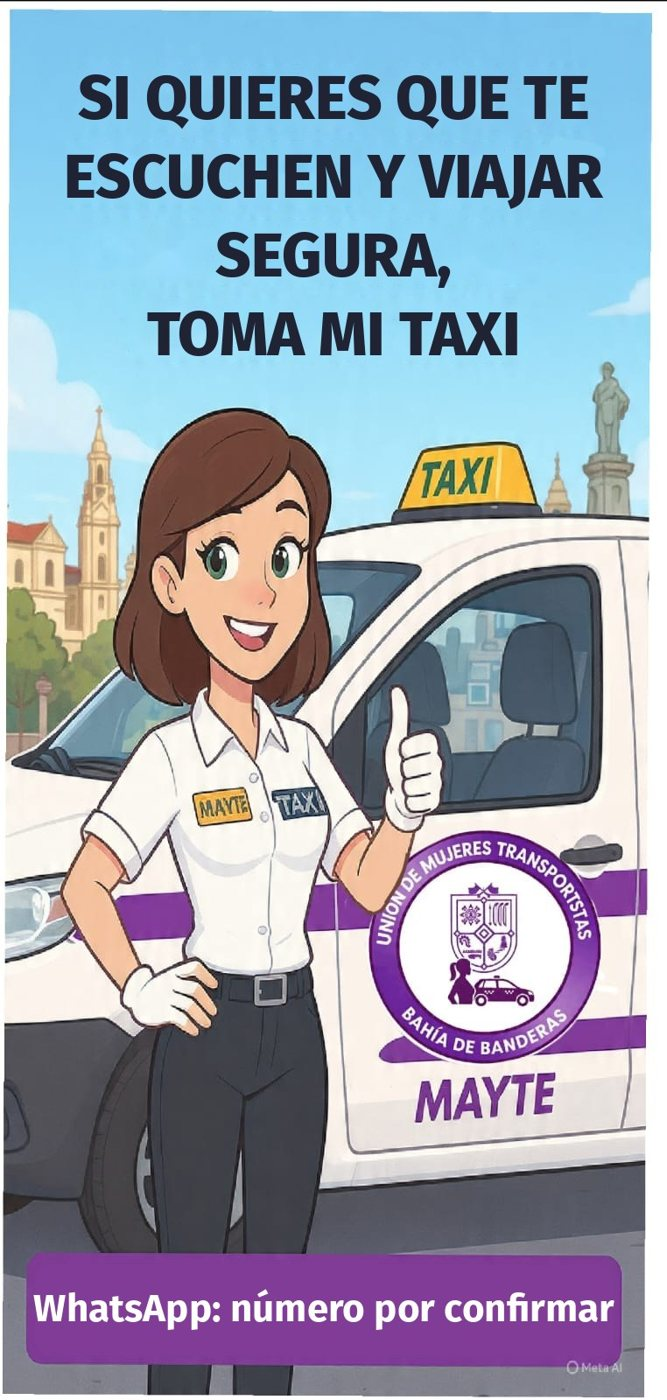
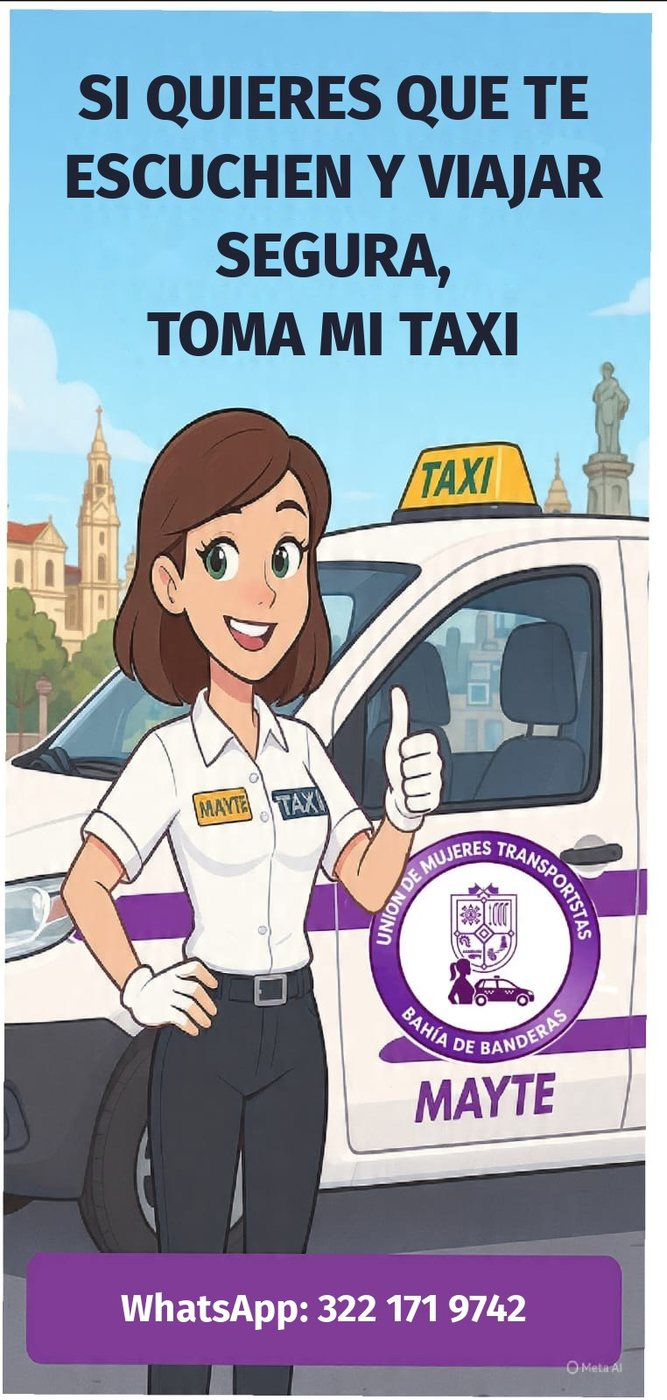
Pantalla de tablet fase 1: bienvenida por conductora, juego, QR de reservación y anunciantes, seguridad

Changed region(s): [[0.03, 0.9214, 0.9295, 0.9521]]

diff --git a/tablet/index.html b/tablet/index.html
@@ -52,63 +52,146 @@ html,body{height:100%;overflow:hidden;background:#2a0d3d;color:#fff;font-family:
 #start button{font:700 28px Figtree;background:#1f9d55;color:#fff;border:0;border-radius:99px;padding:20px 44px}
 #start small{color:#e8d3e6;font-size:16px;max-width:40ch}
 @media (orientation:portrait){.app{grid-template-columns:1fr;grid-template-rows:minmax(0,1fr) auto}.side{flex-direction:row;flex-wrap:wrap;justify-content:center;border-left:0;border-top:2px solid #ffffff1f;padding:12px}.side img.logo{width:80px}.row{width:auto}.qr{width:120px}.side h2{display:none}}
+
+.wel{gap:4vw;padding:4vw;justify-content:center}
+.wel img{height:78%;border-radius:22px;box-shadow:0 20px 60px #0009;object-fit:cover}
+.wel .t{max-width:46%;display:grid;gap:2vh}
+.wel .k{font:700 clamp(15px,1.7vw,22px) Figtree;letter-spacing:.06em;text-transform:uppercase;color:#f8c9de}
+.wel h1{font:700 clamp(34px,5vw,76px)/1.04 Fraunces,serif}
+.wel p{font:400 clamp(17px,2vw,28px)/1.35 Figtree;color:#f6e8f1}
+.chips{display:flex;flex-wrap:wrap;gap:10px}.chips span{background:#ffffff1c;border:1px solid #ffffff33;border-radius:99px;padding:8px 14px;font:600 clamp(13px,1.3vw,18px) Figtree}
+.card{gap:4vw;padding:4vw;justify-content:center}
+.card .t{max-width:52%;display:grid;gap:2vh}
+.card .k{font:700 clamp(15px,1.7vw,22px) Figtree;letter-spacing:.06em;text-transform:uppercase;color:#f8c9de}
+.card h1{font:700 clamp(32px,4.6vw,70px)/1.05 Fraunces,serif}
+.card p{font:400 clamp(17px,2vw,28px)/1.35 Figtree;color:#f6e8f1}
+.bigqr{background:#fff;border-radius:24px;padding:16px;width:clamp(200px,26vw,360px);text-align:center;box-shadow:0 20px 60px #0009}
+.bigqr img{width:100%;display:block}.bigqr b{display:block;color:#2a0d3d;font:700 clamp(14px,1.5vw,20px) Figtree;margin-top:6px}
+.ad .row2{display:flex;align-items:center;gap:3vw}
+.ad .bigqr{width:clamp(160px,18vw,260px)}
+.play{cursor:pointer}
+.play .tap{margin-top:1vh;background:#f29a2e;color:#2a0d3d;font:700 clamp(20px,2.4vw,34px) Figtree;padding:.6em 1.3em;border-radius:99px;animation:pulse2 1.6s ease-in-out infinite}
+@keyframes pulse2{50%{transform:scale(1.06)}}
+#game{position:absolute;inset:0;z-index:5;display:none;flex-direction:column;align-items:center;justify-content:center;gap:3vh;padding:4vw;background:radial-gradient(70% 60% at 50% 20%,#7b3a9e,#2a0d3d);text-align:center}
+#game.on{display:flex}
+#game .n{font:700 clamp(15px,1.6vw,22px) Figtree;color:#f8c9de;letter-spacing:.06em;text-transform:uppercase}
+#game h2{font:700 clamp(28px,4vw,60px)/1.1 Fraunces,serif;max-width:22ch}
+#game .opts{display:grid;gap:14px;width:min(720px,90%)}
+#game .opts button{font:700 clamp(20px,2.3vw,32px) Figtree;padding:.7em 1em;border-radius:18px;border:2px solid #ffffff44;background:#ffffff18;color:#fff}
+#game .opts button.ok{background:#1f9d55;border-color:#1f9d55}
+#game .opts button.no{background:#b23a48;border-color:#b23a48}
+#game p{font:400 clamp(17px,2vw,28px)/1.35 Figtree;color:#f6e8f1;max-width:34ch}
+#game .x{position:absolute;top:18px;right:22px;font:700 20px Figtree;background:#ffffff22;border:0;color:#fff;border-radius:99px;padding:10px 18px}
+.safe{display:grid;gap:6px;width:100%}
+.safe div{background:#b23a4833;border:1px solid #f3a9cb55;border-radius:12px;padding:8px 10px;font:600 clamp(12px,1.1vw,15px) Figtree;text-align:left}
+.safe b{color:#f3a9cb}
 </style>
 </head>
 <body>
 <div class="app">
  <main class="stage" id="stage">
-  <section class="slot" data-type="video" data-src="/img/presentacion.mp4"><video id="v1" playsinline preload="auto" poster="/img/presentacion-poster.jpg"></video></section>
+  <section class="slot wel" data-type="welcome" data-secs="9"><img id="w-foto" src="/tablet/s/cond-liz.jpg" alt="">
+   <div class="t"><div class="k">Unión de Mujeres Transportistas · Bahía de Banderas</div>
+    <h1>¡Bienvenida, bienvenido!<br>Hoy viajas con <span class="cn">Lizette</span></h1>
+    <p>Gracias por elegirnos. Relájate y disfruta tu viaje.</p>
+    <div class="chips"><span>Conductora verificada</span><span>Rastreo GPS en tiempo real</span><span>Viaja segura</span></div></div></section>
+  <section class="slot" data-type="video"><video id="v1" playsinline preload="auto" poster="/img/presentacion-poster.jpg" src="/img/presentacion.mp4"></video></section>
   <section class="slot" data-type="img" data-secs="8"><img src="/tablet/s/01b_bahia.jpg" alt="" style="width:100%;height:100%;object-fit:contain"></section>
-  <section class="slot ad" data-type="ad" data-secs="10"><div class="frame"></div>
-   <div class="k">Espacio disponible</div><h1 class="float">Tu restaurante<br>u hotel aquí</h1>
-   <p>Visitantes y familias viajan con nosotras todos los días. Que te vean en cada traslado.</p>
-   <div class="cta">Anúnciate: 322 136 1264</div></section>
+  <section class="slot ad play" data-type="invite" data-secs="12"><div class="frame"></div>
+   <div class="k">Juega y gana</div><h1 class="float">3 preguntas sobre<br>Bahía de Banderas</h1>
+   <p>Contesta y llévate una sorpresa.</p><div class="tap">Toca aquí para jugar</div></section>
+  <section class="slot ad" data-type="ad" data-secs="11"><div class="frame"></div>
+   <div class="row2"><div><div class="k">Espacio disponible</div><h1 class="float">Tu restaurante<br>u hotel aquí</h1>
+   <p>Visitantes y familias viajan con nosotras todos los días. Que te vean en cada traslado.</p></div>
+   <div class="bigqr"><img src="/tablet/s/qr-anunciate.png" alt=""><b>Anúnciate aquí</b></div></div></section>
   <section class="slot" data-type="img" data-secs="8"><img src="/tablet/s/05_servicio.jpg" alt="" style="width:100%;height:100%;object-fit:contain"></section>
+  <section class="slot card" data-type="card" data-secs="11"><div class="t"><div class="k">Tu próximo viaje</div>
+   <h1>Reserva otra vez con <span class="cn">Lizette</span></h1><p>Escanea, elige fecha y hora, y te confirma por WhatsApp. Aeropuerto, citas, eventos y viajes largos.</p></div>
+   <div class="bigqr"><img id="q-res" src="/tablet/s/qr-reserva-liz.png" alt=""><b>Reserva aquí</b></div></section>
   <section class="slot" data-type="img" data-secs="10"><img src="/tablet/s/14c_objetivo.jpg" alt="" style="width:100%;height:100%;object-fit:contain"></section>
-  <section class="slot ad" data-type="ad" data-secs="10"><div class="frame"></div>
-   <div class="k">Publicidad en movimiento</div><h1 class="float">Tu marca puede estar<br>en esta pantalla</h1>
-   <p>Promociona tu negocio dentro de las unidades de la Unión de Mujeres Transportistas.</p>
-   <div class="cta">Pregunta por WhatsApp</div></section>
+  <section class="slot ad" data-type="ad" data-secs="11"><div class="frame"></div>
+   <div class="row2"><div><div class="k">Publicidad en movimiento</div><h1 class="float">Tu marca puede estar<br>en esta pantalla</h1>
+   <p>Promociona tu negocio dentro de las unidades de la Unión de Mujeres Transportistas.</p></div>
+   <div class="bigqr"><img src="/tablet/s/qr-anunciate.png" alt=""><b>Pregunta por WhatsApp</b></div></div></section>
   <section class="slot" data-type="img" data-secs="8"><img src="/tablet/s/08_movilidad.jpg" alt="" style="width:100%;height:100%;object-fit:contain"></section>
   <section class="slot" data-type="img" data-secs="8"><img src="/tablet/s/14b_estado.jpg" alt="" style="width:100%;height:100%;object-fit:contain"></section>
+  <section class="slot card" data-type="card" data-secs="10"><div class="t"><div class="k">Síguenos</div>
+   <h1>¿Te gustó tu viaje?</h1><p>Síguenos en Facebook y recomiéndanos. Tu apoyo ayuda a que más mujeres trabajen seguras.</p></div>
+   <div class="bigqr"><img src="/tablet/s/qr-facebook.png" alt=""><b>Facebook de la Unión</b></div></section>
+  <div id="game"><button class="x" id="g-x" type="button">Cerrar ✕</button><div class="n" id="g-n"></div><h2 id="g-q"></h2><div class="opts" id="g-o"></div><p id="g-p"></p></div>
   <div class="dots" id="dots"></div>
  </main>
  <aside class="side">
-  <img class="logo" src="/img/logo.png" alt="Unión de Mujeres Transportistas Bahía de Banderas">
-  <h2>Viaja segura con nosotras</h2>
+  <img class="logo" id="logo" src="/img/logo.png" alt="Unión de Mujeres Transportistas Bahía de Banderas">
+  <h2>Viajas con <span class="cn">Lizette</span></h2>
   <div class="row">
-   <div class="pill wa"><b>WA</b>322 136 1264</div>
+   <div class="pill wa"><b>WA</b><span id="s-wa">322 136 1264</span></div>
    <div class="pill"><b>f</b>Unión de Mujeres Transportistas BB</div>
    <div class="pill"><b>TT</b>@lizzete.esther.ca</div>
   </div>
+  <div class="safe"><div><b>Línea de las Mujeres</b><br>311 132 52 25</div><div><b>Emergencias</b> 911</div></div>
   <div class="qr"><img src="/img/qr-pagina.png" alt="Código QR de la página"><p>Escanea y conócenos</p></div>
  </aside>
 </div>
 <div id="start">
  <img src="/img/logo.png" alt="">
  <button id="go" type="button">▶ Iniciar pantalla</button>
- <small>Toca para iniciar con sonido y en pantalla completa. Si nadie toca, inicia sola sin sonido en unos segundos.</small>
+ <small>Toca para iniciar con sonido y en pantalla completa. Si nadie toca, inicia sola sin sonido en unos segundos.<br>Para un pasajero nuevo: toca dos veces el logo de la derecha.</small>
 </div>
 <script>
-const slots=[...document.querySelectorAll('.slot')],dots=document.getElementById('dots'),v1=document.getElementById('v1');
-slots.forEach(()=>dots.appendChild(document.createElement('i')));
-let i=-1,timer=null,sound=false,lock=null;
-async function wake(){try{if('wakeLock' in navigator){lock=await navigator.wakeLock.request('screen')}}catch(e){}}
-document.addEventListener('visibilitychange',()=>{if(document.visibilityState==='visible')wake()});
-function clear(){clearTimeout(timer);v1.pause();document.querySelectorAll('.reel').forEach(r=>r.innerHTML='')}
-function next(){clear();i=(i+1)%slots.length;const s=slots[i];
- if(s.dataset.type==='reel'&&!navigator.onLine){return next()}
- slots.forEach((x,k)=>x.classList.toggle('on',k===i));[...dots.children].forEach((d,k)=>d.classList.toggle('on',k===i));
- if(s.dataset.type==='video'){if(!v1.src)v1.src=s.dataset.src;v1.currentTime=0;v1.muted=!sound;v1.play().catch(()=>{v1.muted=true;v1.play().catch(()=>{timer=setTimeout(next,5000)})});v1.onended=next;v1.onerror=()=>{timer=setTimeout(next,2000)}}
- else if(s.dataset.type==='reel'){const f=document.createElement('iframe');f.allow='autoplay; encrypted-media; picture-in-picture';f.allowFullscreen=true;
-  f.src='https://www.facebook.com/plugins/video.php?href='+encodeURIComponent(s.dataset.href)+'&show_text=false&autoplay=true&mute='+(sound?0:1)+'&width=360';
-  s.querySelector('.reel').appendChild(f);timer=setTimeout(next,(+s.dataset.secs||45)*1000)}
- else{timer=setTimeout(next,(+s.dataset.secs||10)*1000)}}
-function begin(withSound){if(i>=0)return;sound=withSound;document.getElementById('start').remove();wake();next()}
-document.getElementById('go').onclick=()=>{try{document.documentElement.requestFullscreen&&document.documentElement.requestFullscreen()}catch(e){}begin(true)};
-setTimeout(()=>begin(false),8000);
-document.addEventListener('dblclick',()=>{try{document.documentElement.requestFullscreen()}catch(e){}});
-if('serviceWorker' in navigator)navigator.serviceWorker.register('/tablet/sw.js',{scope:'/tablet/'}).catch(()=>{});
+/* ===== Configuración ===== */
+var CONDUCTORAS={
+ liz:{n:'Lizette',wa:'322 136 1264',foto:'/tablet/s/cond-liz.jpg',qr:'/tablet/s/qr-reserva-liz.png'},
+ mayte:{n:'Mayte',wa:'322 171 9742',foto:'/tablet/s/cond-mayte.jpg',qr:'/tablet/s/qr-reserva-mayte.png'}
+};
+var PREMIO={activo:false,titulo:'City Tour de regalo',valor:'$500',wa:''}; /* al poner el WhatsApp de la agencia se activa el premio */
+var PREGUNTAS=[
+ {q:'¿En qué estado está Bahía de Banderas?',o:['Jalisco','Nayarit','Colima'],c:1},
+ {q:'¿Cuál es la capital de Nayarit?',o:['Tepic','Compostela','Bucerías'],c:0},
+ {q:'¿Qué visitantes llegan a la bahía en invierno?',o:['Pingüinos','Osos polares','Ballenas jorobadas'],c:2}
+];
+/* ===== Conductora de esta tablet (?c=liz o ?c=mayte, se recuerda) ===== */
+var key='liz';
+try{var u=new URLSearchParams(location.search).get('c');if(u&&CONDUCTORAS[u]){localStorage.setItem('mtbb_c',u)}key=localStorage.getItem('mtbb_c')||'liz'}catch(e){}
+var C=CONDUCTORAS[key]||CONDUCTORAS.liz;
+document.querySelectorAll('.cn').forEach(function(e){e.textContent=C.n});
+document.getElementById('w-foto').src=C.foto;document.getElementById('q-res').src=C.qr;document.getElementById('s-wa').textContent=C.wa;
+/* ===== Bucle ===== */
+var slots=[].slice.call(document.querySelectorAll('.slot')),dots=document.getElementById('dots'),v1=document.getElementById('v1');
+slots.forEach(function(){dots.appendChild(document.createElement('i'))});
+var i=-1,timer=null,sound=false,lock=null,started=false,inGame=false;
+function wake(){try{if('wakeLock' in navigator)navigator.wakeLock.request('screen').then(function(l){lock=l}).catch(function(){})}catch(e){}}
+document.addEventListener('visibilitychange',function(){if(document.visibilityState==='visible')wake()});
+function show(k){clearTimeout(timer);v1.pause();i=k;var s=slots[i];
+ slots.forEach(function(x,n){x.classList.toggle('on',n===i)});[].forEach.call(dots.children,function(d,n){d.classList.toggle('on',n===i)});
+ if(s.dataset.type==='video'){v1.currentTime=0;v1.muted=!sound;v1.play().catch(function(){v1.muted=true;v1.play().catch(function(){timer=setTimeout(next,4000)})});v1.onended=next;v1.onerror=function(){timer=setTimeout(next,2000)}}
+ else{timer=setTimeout(next,(+s.dataset.secs||9)*1000)}}
+function next(){if(inGame)return;show((i+1)%slots.length)}
+function begin(withSound){if(started)return;started=true;sound=withSound;var st=document.getElementById('start');if(st)st.remove();wake();show(0)}
+document.getElementById('go').onclick=function(){try{document.documentElement.requestFullscreen&&document.documentElement.requestFullscreen()}catch(e){}begin(true)};
+setTimeout(function(){begin(false)},8000);
+/* Pasajero nuevo: doble toque en el logo */
+document.getElementById('logo').addEventListener('dblclick',function(){sound=true;closeGame();try{document.documentElement.requestFullscreen()}catch(e){}show(0)});
+/* ===== Juego ===== */
+var G=document.getElementById('game'),gq=0,ok=0,idle=null;
+function idleReset(){clearTimeout(idle);idle=setTimeout(closeGame,45000)}
+function openGame(){inGame=true;clearTimeout(timer);v1.pause();gq=0;ok=0;G.classList.add('on');ask();idleReset()}
+function closeGame(){if(!inGame)return;inGame=false;clearTimeout(idle);G.classList.remove('on');next()}
+function ask(){var p=PREGUNTAS[gq];document.getElementById('g-n').textContent='Pregunta '+(gq+1)+' de '+PREGUNTAS.length;
+ document.getElementById('g-q').textContent=p.q;document.getElementById('g-p').textContent='';var o=document.getElementById('g-o');o.innerHTML='';
+ p.o.forEach(function(t,n){var b=document.createElement('button');b.type='button';b.textContent=t;b.onclick=function(){idleReset();
+  [].forEach.call(o.children,function(x){x.disabled=true});if(n===p.c){b.classList.add('ok');ok++;document.getElementById('g-p').textContent='¡Correcto!'}
+  else{b.classList.add('no');o.children[p.c].classList.add('ok');document.getElementById('g-p').textContent='La respuesta es: '+p.o[p.c]}
+  setTimeout(function(){gq++;if(gq<PREGUNTAS.length)ask();else fin()},1600)};o.appendChild(b)})}
+function fin(){var o=document.getElementById('g-o');o.innerHTML='';document.getElementById('g-n').textContent='Resultado';
+ document.getElementById('g-q').textContent='¡Acertaste '+ok+' de '+PREGUNTAS.length+'!';
+ if(PREMIO.activo&&PREMIO.wa){var code='CT-'+Math.random().toString(36).slice(2,6).toUpperCase();
+  document.getElementById('g-p').innerHTML='Ganaste: <b>'+PREMIO.titulo+'</b> (valor '+PREMIO.valor+').<br>Tu código: <b>'+code+'</b>. Tómale foto a esta pantalla y envíala al WhatsApp '+PREMIO.wa+' para reclamarlo.'}
+ else{document.getElementById('g-p').textContent='Gracias por jugar y por viajar con nosotras. ¡Disfruta Bahía de Banderas!'}
+ idleReset()}
+document.querySelector('.play').addEventListener('click',openGame);
+document.getElementById('g-x').addEventListener('click',closeGame);
+if('serviceWorker' in navigator)navigator.serviceWorker.register('/tablet/sw.js',{scope:'/tablet/'}).catch(function(){});
 </script>
 </body>
 </html>

diff --git a/tablet/sw.js b/tablet/sw.js
@@ -1,5 +1,5 @@
-const C='mtbb-tablet-v3';
-const A=['/tablet/','/tablet/index.html','/tablet/manifest.json','/img/logo.png','/img/logo-sm.png','/img/qr-pagina.png','/img/presentacion-poster.jpg','/img/presentacion.mp4','/tablet/s/01b_bahia.jpg','/tablet/s/05_servicio.jpg','/tablet/s/14c_objetivo.jpg','/tablet/s/08_movilidad.jpg','/tablet/s/14b_estado.jpg','/tablet/f/fraunces-latin-700-normal.woff2','/tablet/f/fraunces-latin-500-italic.woff2','/tablet/f/figtree-latin-400-normal.woff2','/tablet/f/figtree-latin-600-normal.woff2','/tablet/f/figtree-latin-700-normal.woff2'];
+const C='mtbb-tablet-v4';
+const A=['/tablet/','/tablet/index.html','/tablet/manifest.json','/img/logo.png','/img/logo-sm.png','/img/qr-pagina.png','/img/presentacion-poster.jpg','/img/presentacion.mp4','/tablet/s/01b_bahia.jpg','/tablet/s/05_servicio.jpg','/tablet/s/14c_objetivo.jpg','/tablet/s/08_movilidad.jpg','/tablet/s/14b_estado.jpg','/tablet/s/cond-liz.jpg','/tablet/s/cond-mayte.jpg','/tablet/s/qr-reserva-liz.png','/tablet/s/qr-reserva-mayte.png','/tablet/s/qr-anunciate.png','/tablet/s/qr-facebook.png','/tablet/f/fraunces-latin-700-normal.woff2','/tablet/f/fraunces-latin-500-italic.woff2','/tablet/f/figtree-latin-400-normal.woff2','/tablet/f/figtree-latin-600-normal.woff2','/tablet/f/figtree-latin-700-normal.woff2'];
 self.addEventListener('install',e=>{e.waitUntil(caches.open(C).then(c=>c.addAll(A)).then(()=>self.skipWaiting()))});
 self.addEventListener('activate',e=>{e.waitUntil(caches.keys().then(k=>Promise.all(k.filter(x=>x!==C).map(x=>caches.delete(x)))).then(()=>self.clients.claim()))});
 self.addEventListener('fetch',e=>{const u=new URL(e.request.url);if(u.origin!==location.origin)return;

diff --git a/index.html b/index.html
@@ -541,6 +541,7 @@ document.querySelectorAll('.fade').forEach(el=>io.observe(el));
   if(C.pago){b.href=C.pago;b.hidden=false;b.textContent='Pagar a '+C.n+' con tarjeta';pt.textContent='Cuando '+C.n+' te confirme el precio, paga aquí con tarjeta de débito, crédito o desde tu celular.'}
   else{b.hidden=true;pt.textContent=C.n+' te enviará su enlace de pago con tarjeta por WhatsApp al confirmarte el precio.'}}
  if(sel)sel.addEventListener('change',pago);
+ try{var pc=new URLSearchParams(location.search).get('c');if(pc&&COND[pc]&&sel){sel.value=pc;pago()}}catch(e){}
  var f=document.getElementById('rf'); if(!f)return;
  var d=new Date();d.setMinutes(d.getMinutes()-d.getTimezoneOffset());var hoy=d.toISOString().slice(0,10);
  document.getElementById('r-fec').min=hoy;
